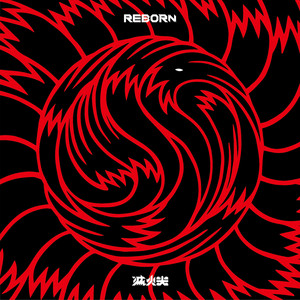
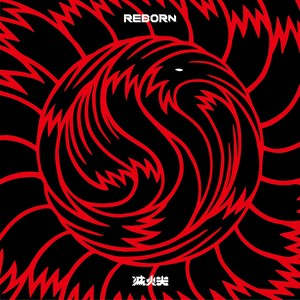
Add high-resolution album covers with progressive previews

Changed region(s): [[0.0, 0.0, 1.0, 1.0], [0.93, 0.27, 1.0, 0.39]]

diff --git a/_includes/music-album.html b/_includes/music-album.html
@@ -1,13 +1,15 @@
 {% assign album = include.album %}
 {% assign cover_url = album.cover %}
+{% assign full_cover_url = album.full_cover %}
 {% if cover_url and cover_url != '' %}{% unless cover_url contains '://' %}{% assign cover_url = cover_url | relative_url %}{% endunless %}{% endif %}
+{% if full_cover_url and full_cover_url != '' %}{% unless full_cover_url contains '://' %}{% assign full_cover_url = full_cover_url | relative_url %}{% endunless %}{% endif %}
 <article class="music-album">
   <a class="music-album__link" href="{{ album.spotify | escape }}" target="_blank" rel="noopener noreferrer" aria-label="在 Spotify 打开 {{ album.artist | escape }} 的专辑 {{ album.title | escape }}（新窗口）">
     <div class="music-album__cover music-tone-{{ album.tone | default: 'sage' | slugify }}">
       <div class="music-album__scenery" aria-hidden="true"><i class="music-album__back"></i><i class="music-album__wall music-album__wall--left"></i><i class="music-album__wall music-album__wall--right"></i><i class="music-album__floor"></i></div>
       <span class="music-album__mount" aria-hidden="true"></span>
       <div class="music-album__jacket">
-      {% if cover_url and cover_url != '' %}<img src="{{ cover_url | escape }}" alt="{{ album.title | escape }} 专辑封面" width="600" height="600" loading="lazy" decoding="async">{% else %}<div class="music-album__placeholder" aria-hidden="true"><span>LP</span><i></i><span>{{ album.artist | escape }}</span></div>{% endif %}
+      {% if cover_url and cover_url != '' %}<img src="{{ cover_url | escape }}"{% if full_cover_url and full_cover_url != '' and full_cover_url != cover_url %} data-full-src="{{ full_cover_url | escape }}"{% endif %} alt="{{ album.title | escape }} 专辑封面" width="600" height="600" loading="lazy" decoding="async">{% else %}<div class="music-album__placeholder" aria-hidden="true"><span>LP</span><i></i><span>{{ album.artist | escape }}</span></div>{% endif %}
       </div>
     </div>
     <div class="music-album__caption">

diff --git a/_layouts/blog-shell.html b/_layouts/blog-shell.html
@@ -48,7 +48,7 @@ layout: compress
   <script src="https://cdnjs.cloudflare.com/ajax/libs/popper.js/1.14.7/umd/popper.min.js"></script>
   <script src="https://cdnjs.cloudflare.com/ajax/libs/twitter-bootstrap/4.6.0/js/bootstrap.min.js"></script>
   {% unless page.navbar_title == 'Publications' or page.navbar_title == 'Music' %}<script src="{{ '/assets/js/blog.js' | relative_url }}?v={{ site.time | date: '%s' }}" defer></script>{% endunless %}
-  {% if page.navbar_title == 'Publications' %}<script src="{{ '/assets/js/progressive-images.js' | relative_url }}" defer></script>{% endif %}
+  {% if page.navbar_title == 'Publications' or page.navbar_title == 'Music' %}<script src="{{ '/assets/js/progressive-images.js' | relative_url }}" defer></script>{% endif %}
   {% include idle-images.html %}
 </body>
 </html>

diff --git a/docs/music-guide.md b/docs/music-guide.md
@@ -4,7 +4,7 @@
 
 ## 添加专辑
 
-1. 将专辑封面保存到 `images/music/`，推荐正方形 JPG 或 WebP，宽度约 600px。
+1. 将专辑封面保存到 `images/music/`。推荐准备约 300px 的小图及来源提供的最高分辨率原图，均使用正方形 JPG 或 WebP；不要将小图放大充当高清图。
 2. 在 Spotify 打开专辑，选择“分享 → 复制专辑链接”。请用专辑链接，而非歌曲链接。
 3. 打开 `_data/music.yml`，在现有的 `albums:` 下复制一段专辑信息，并填写自己的内容。下面展示完整格式；文件里只保留一个 `albums:`：
 
@@ -14,6 +14,7 @@ albums:
     artist: "歌手 / 乐队"
     year: "2026"
     cover: "/images/music/my-album.jpg"
+    full_cover: "/images/music/my-album-full.jpg"
     spotify: "https://open.spotify.com/album/你的专辑ID"
     note: "一句你喜欢它的理由。"
     tags: ["华语", "流行"]
@@ -21,6 +22,22 @@ albums:
 ```
 
 `cover` 可以使用完整的 HTTPS 图片地址，但保存在仓库里更稳定。`note`、`tags`、`year` 和 `tone` 都可以省略。没有封面时会显示一个唱片式占位封面；`title`、`artist`、`spotify` 应填写完整。
+
+`full_cover` 可选：先展示 `cover` 小图，沿用头像的渐进加载脚本，等高清图下载、解码完成后原位替换，不改变布局。高清图失败时保留小图；不填写则只显示 `cover`。两种尺寸均由本站提供，访客不必连接 Spotify 或 Apple Music。高清版本也会自动加入空闲预取清单。
+
+### 当前封面来源（2026-10-20 核对）
+
+对比 Spotify 官方提供的 640×640 封面后，选用了 Apple Music 同图案的更高清版本。通过 Apple 官方 iTunes lookup API 获取 artwork URL，并请求大尺寸；服务端实际返回以下尺寸，而非请求尺寸 9999px。高清文件原样保存、没有人工放大，预览图由对应高清图缩小为 300×300。
+
+| 专辑 | 高清尺寸 | 官方来源 |
+| --- | --- | --- |
+| Abbey Road | 1500×1500 | [Apple Music](https://music.apple.com/us/album/1474815798) |
+| Dookie | 1425×1425 | [Apple Music](https://music.apple.com/us/album/1160081985) |
+| American Idiot | 1425×1425 | [Apple Music](https://music.apple.com/us/album/1161539183) |
+| Reborn | 3000×3000 | [Apple Music](https://music.apple.com/us/album/1547226812) |
+| HIT ME HARD AND SOFT | 3000×3000 | [Apple Music](https://music.apple.com/us/album/1739659134) |
+| SABINA之淚 | 3000×3000 | [Apple Music](https://music.apple.com/hk/album/1583189438) |
+| 黑豹 | 1400×1400 | [Apple Music](https://music.apple.com/hk/album/177025348) |
 
 ## 继续添加、排序、删除
 
